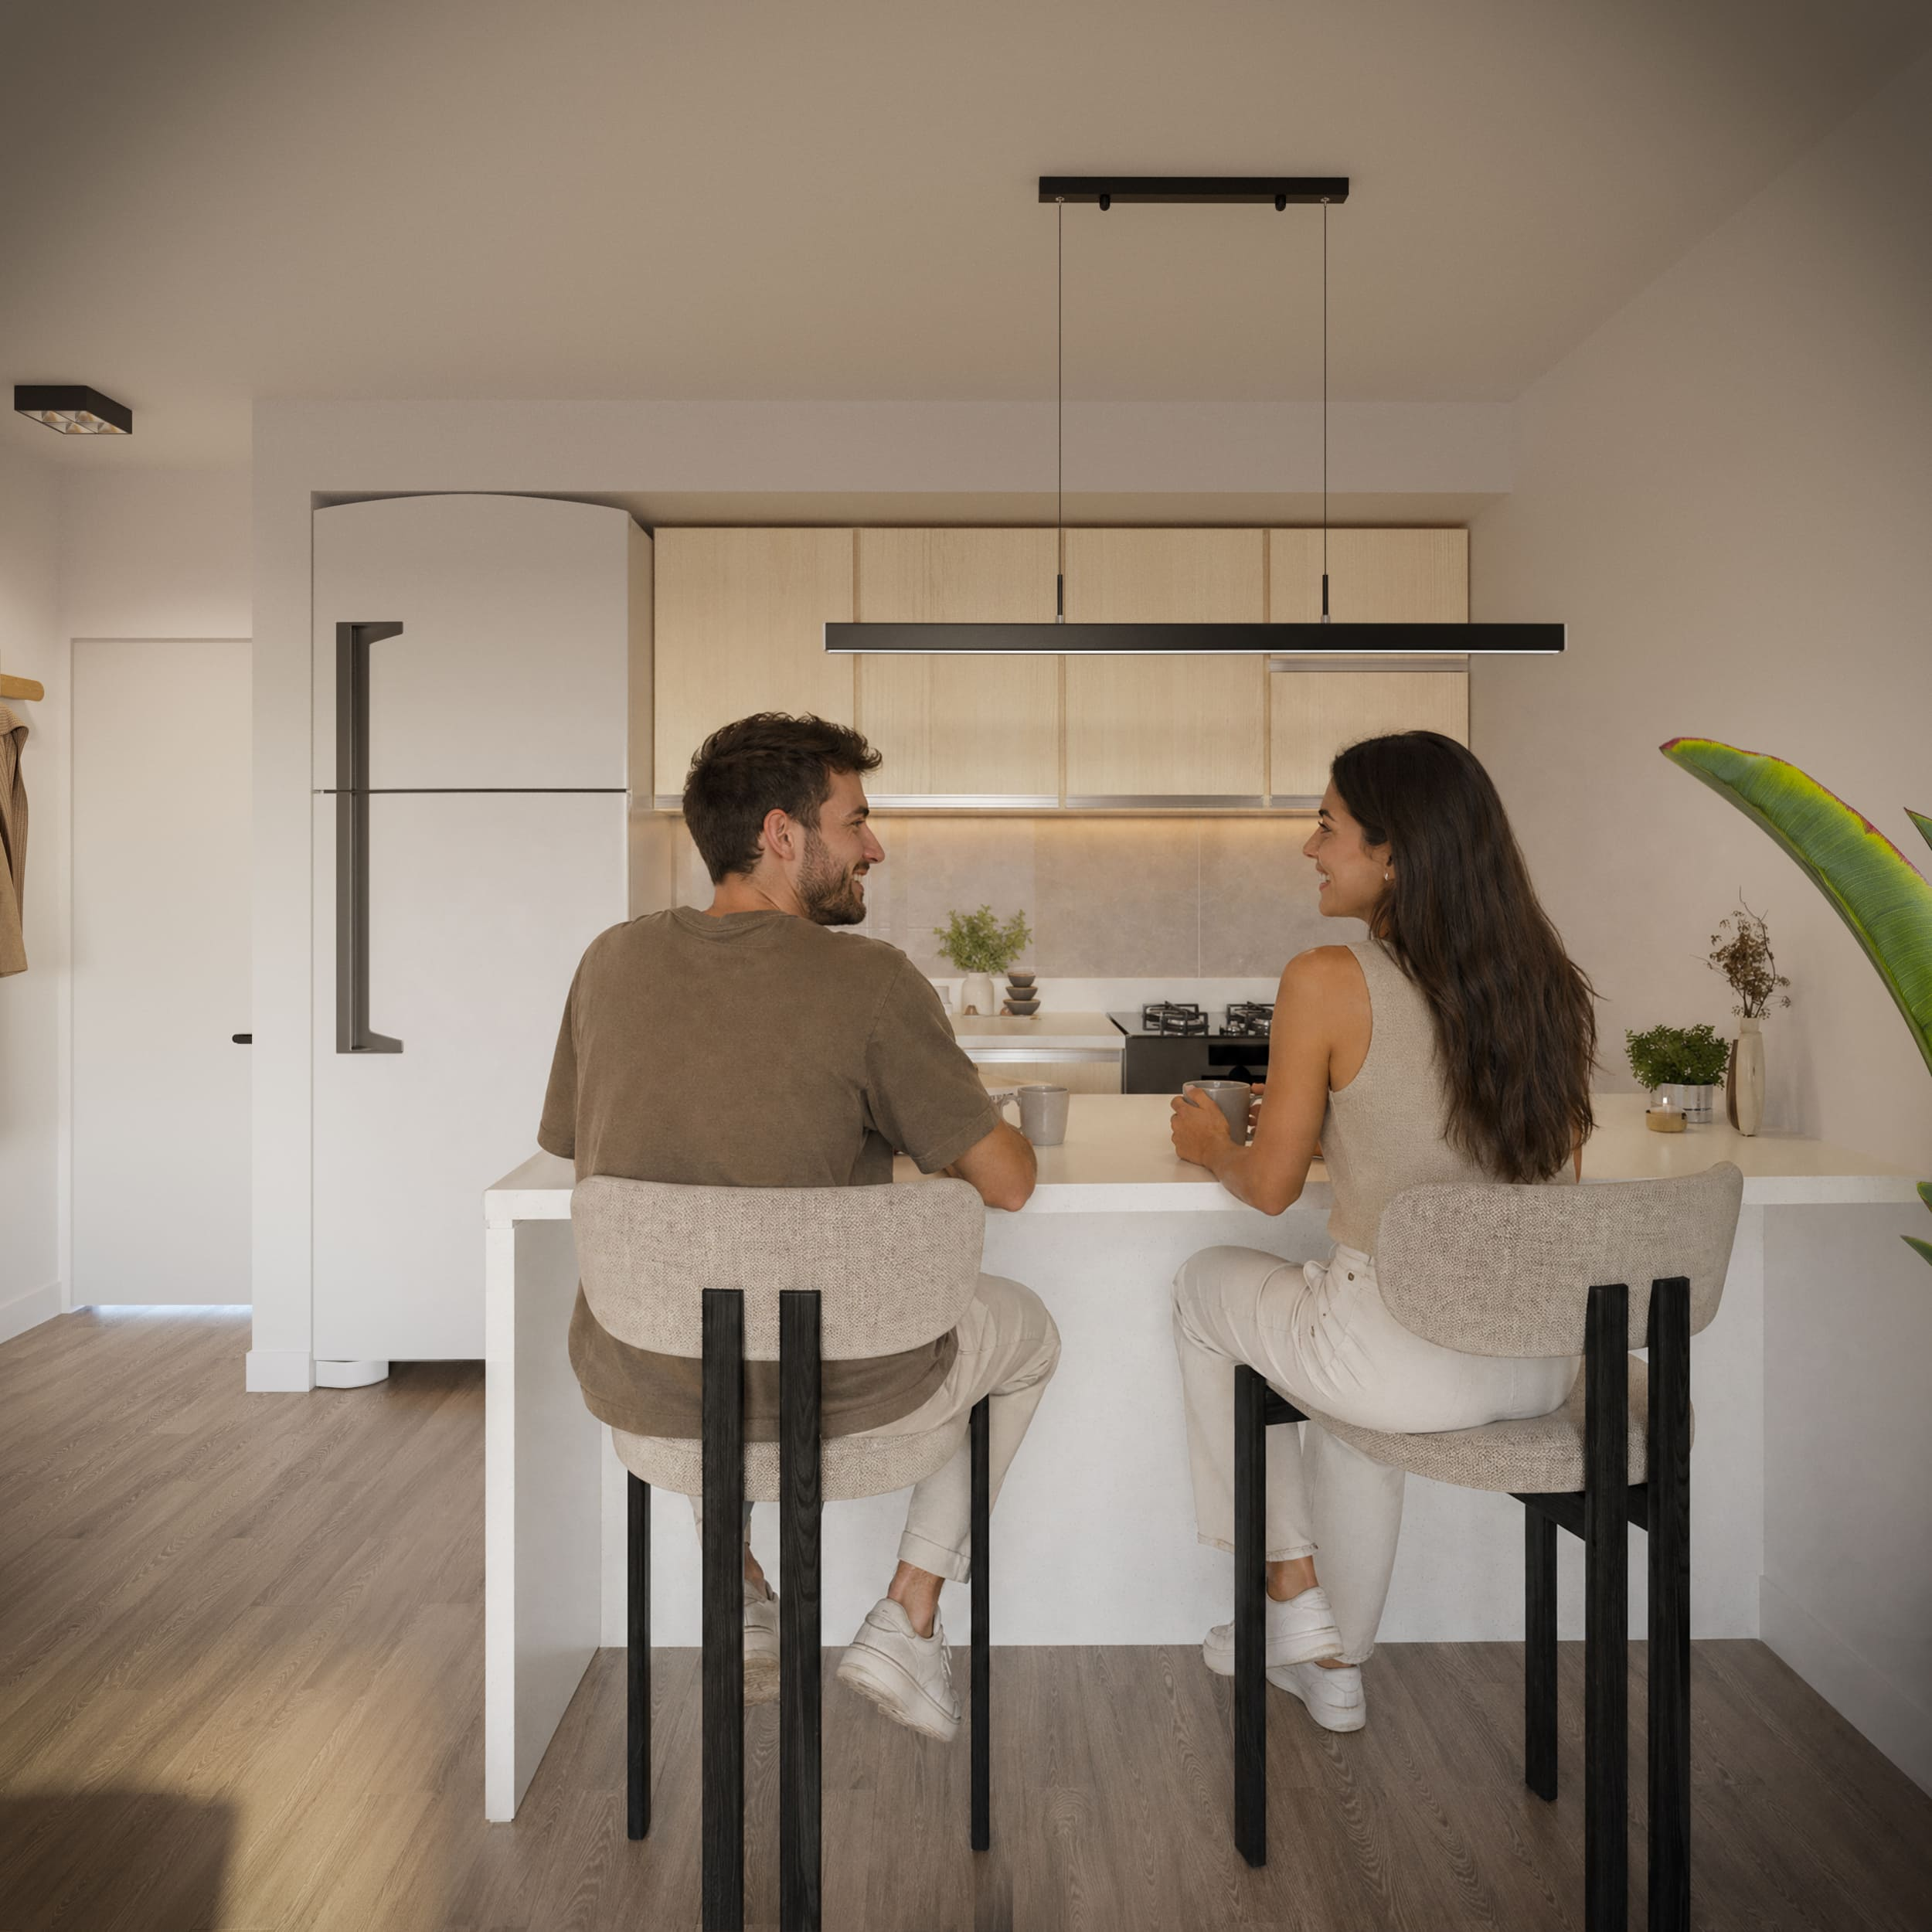
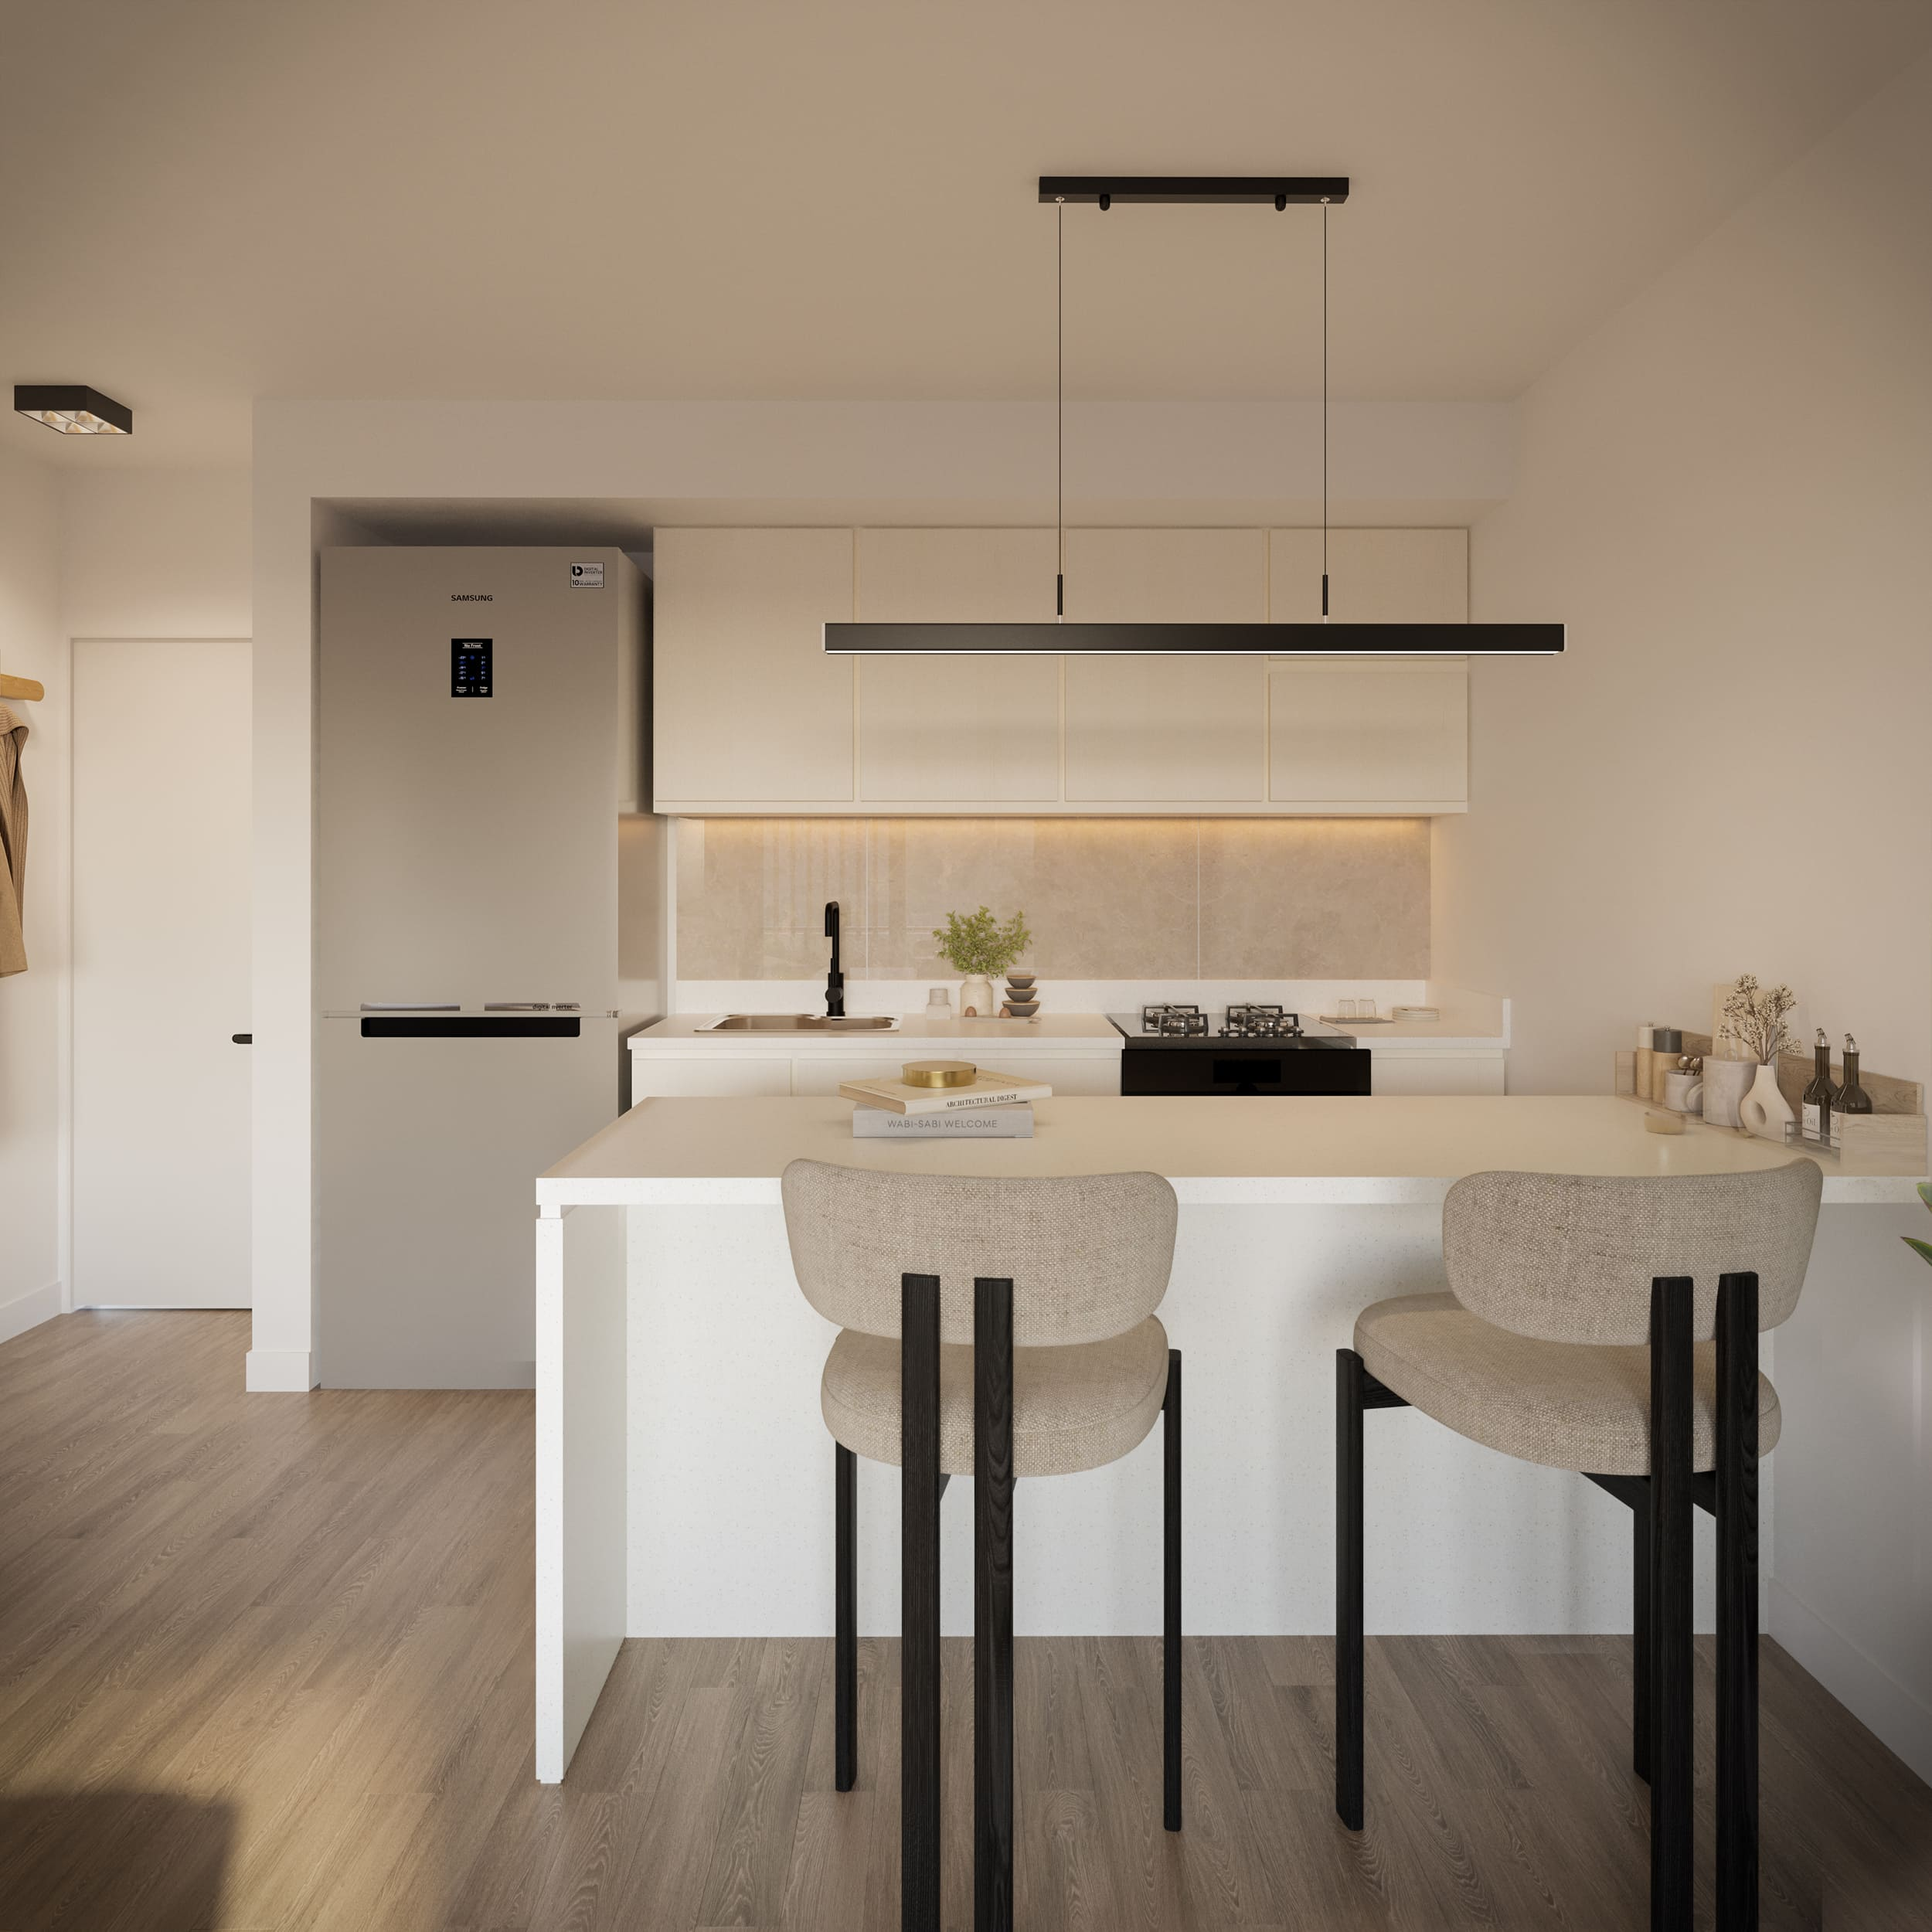
se suben fixes ambrosoni

diff --git a/config/brand.ts b/config/brand.ts
@@ -188,21 +188,21 @@ export const brand = {
   tours360: [
     {
       id: "depto-a",
-      title: "Depto A",
+      title: "Depto 1 - A",
       description: "3 Ambientes",
       url: "https://kuula.co/share/collection/7Mntx?logo=1&info=1&fs=1&vr=0&thumbs=0&inst=es&title=0&desc=0",
     },
     {
       id: "depto-b",
-      title: "Depto B",
+      title: "Depto 3 - C",
       description: "2 Ambientes",
-      url: "https://kuula.co/share/collection/7MntQ?logo=1&info=1&fs=1&vr=0&thumbs=0&inst=es&title=0&desc=0",
+      url: "https://kuula.co/share/collection/7M64p?logo=1&info=1&fs=1&vr=0&thumbs=0&inst=es&title=0&desc=0",
     },
     {
       id: "depto-c",
-      title: "Depto C",
+      title: "Depto 1 - B",
       description: "3 Ambientes",
-      url: "https://kuula.co/share/collection/7M64p?logo=1&info=1&fs=1&vr=0&thumbs=0&inst=es&title=0&desc=0",
+      url: "https://kuula.co/share/collection/7MntQ?logo=1&info=1&fs=1&vr=0&thumbs=0&inst=es&title=0&desc=0",
     },
   ] satisfies Tour360[],
 
@@ -269,7 +269,7 @@ export const brand = {
   typologies: [
     {
       id: "depto-1",
-      name: "Depto 1",
+      name: "Depto 1 - Tipologías A y B",
       totalArea: 81, // 65 cub + 16 desc (tipología A/B)
       coveredArea: 65,
       bedrooms: 2,
@@ -279,7 +279,7 @@ export const brand = {
     },
     {
       id: "depto-2",
-      name: "Depto 2",
+      name: "Depto 2 - Tipologías D y E",
       totalArea: 65, // 53 cub + 12 desc (tipología D/E)
       coveredArea: 53,
       bedrooms: 1,
@@ -289,7 +289,7 @@ export const brand = {
     },
     {
       id: "depto-3",
-      name: "Depto 3",
+      name: "Depto 3 - Tipología C",
       totalArea: 60, // 53 cub + 7.5 desc (tipología C, redondeado)
       coveredArea: 53,
       bedrooms: 1,